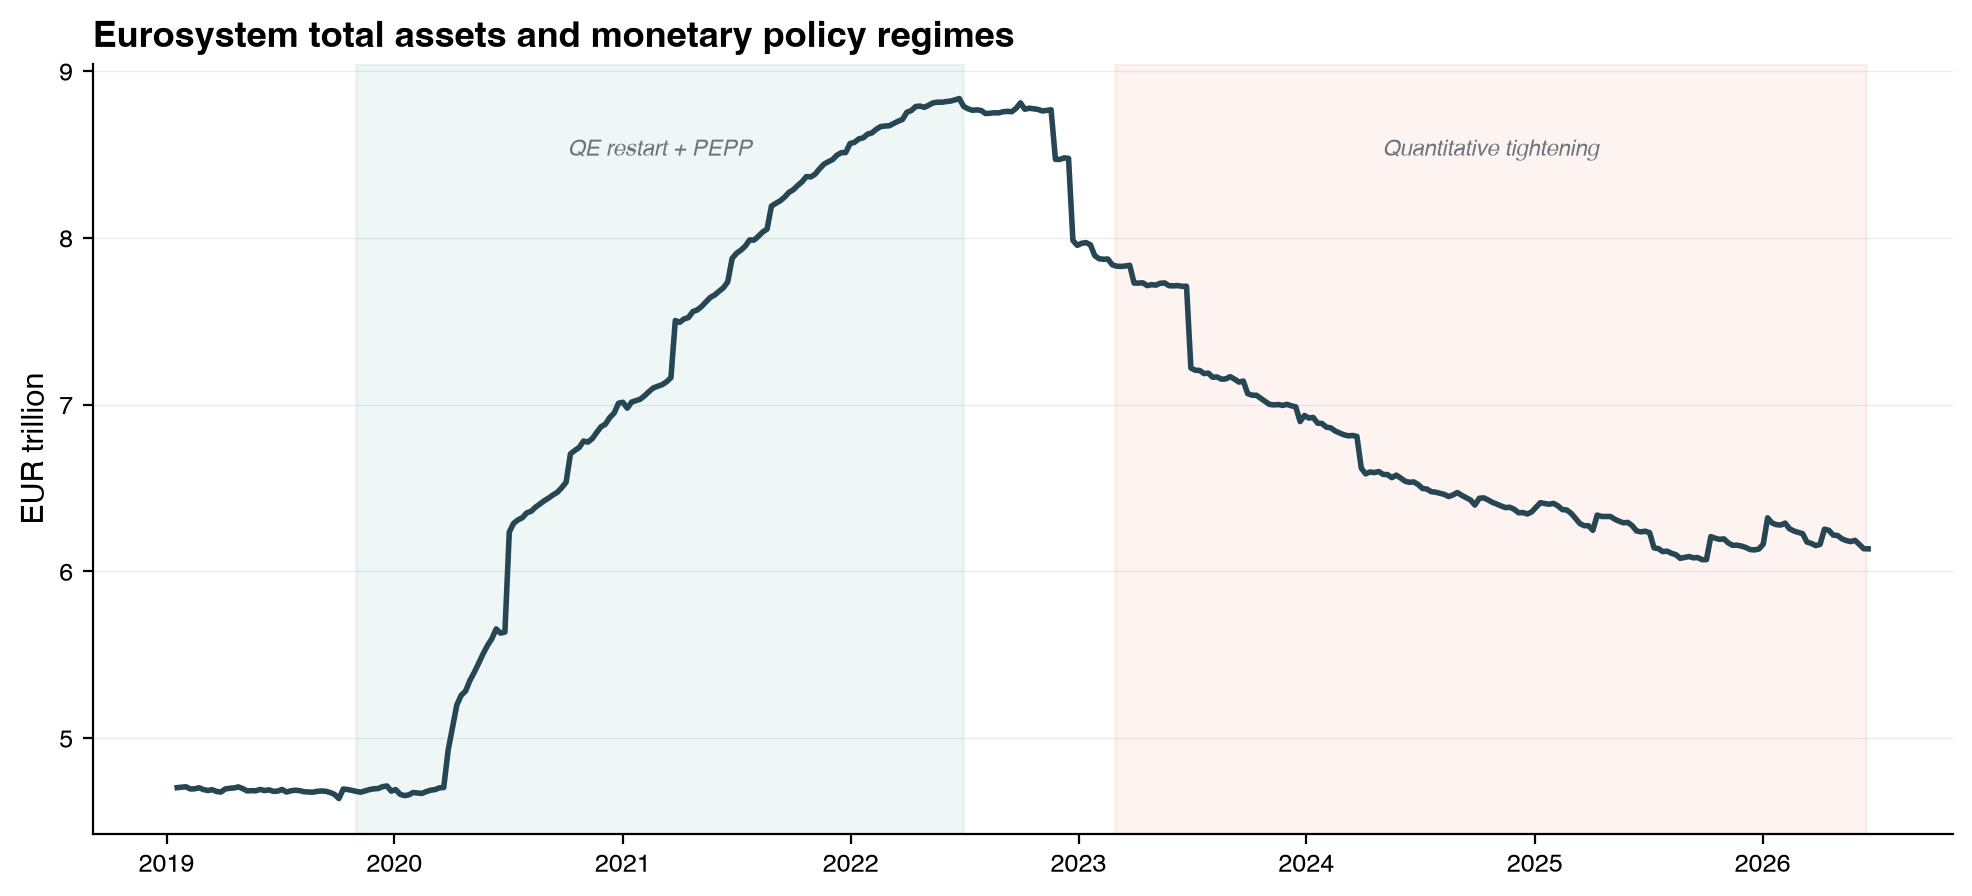
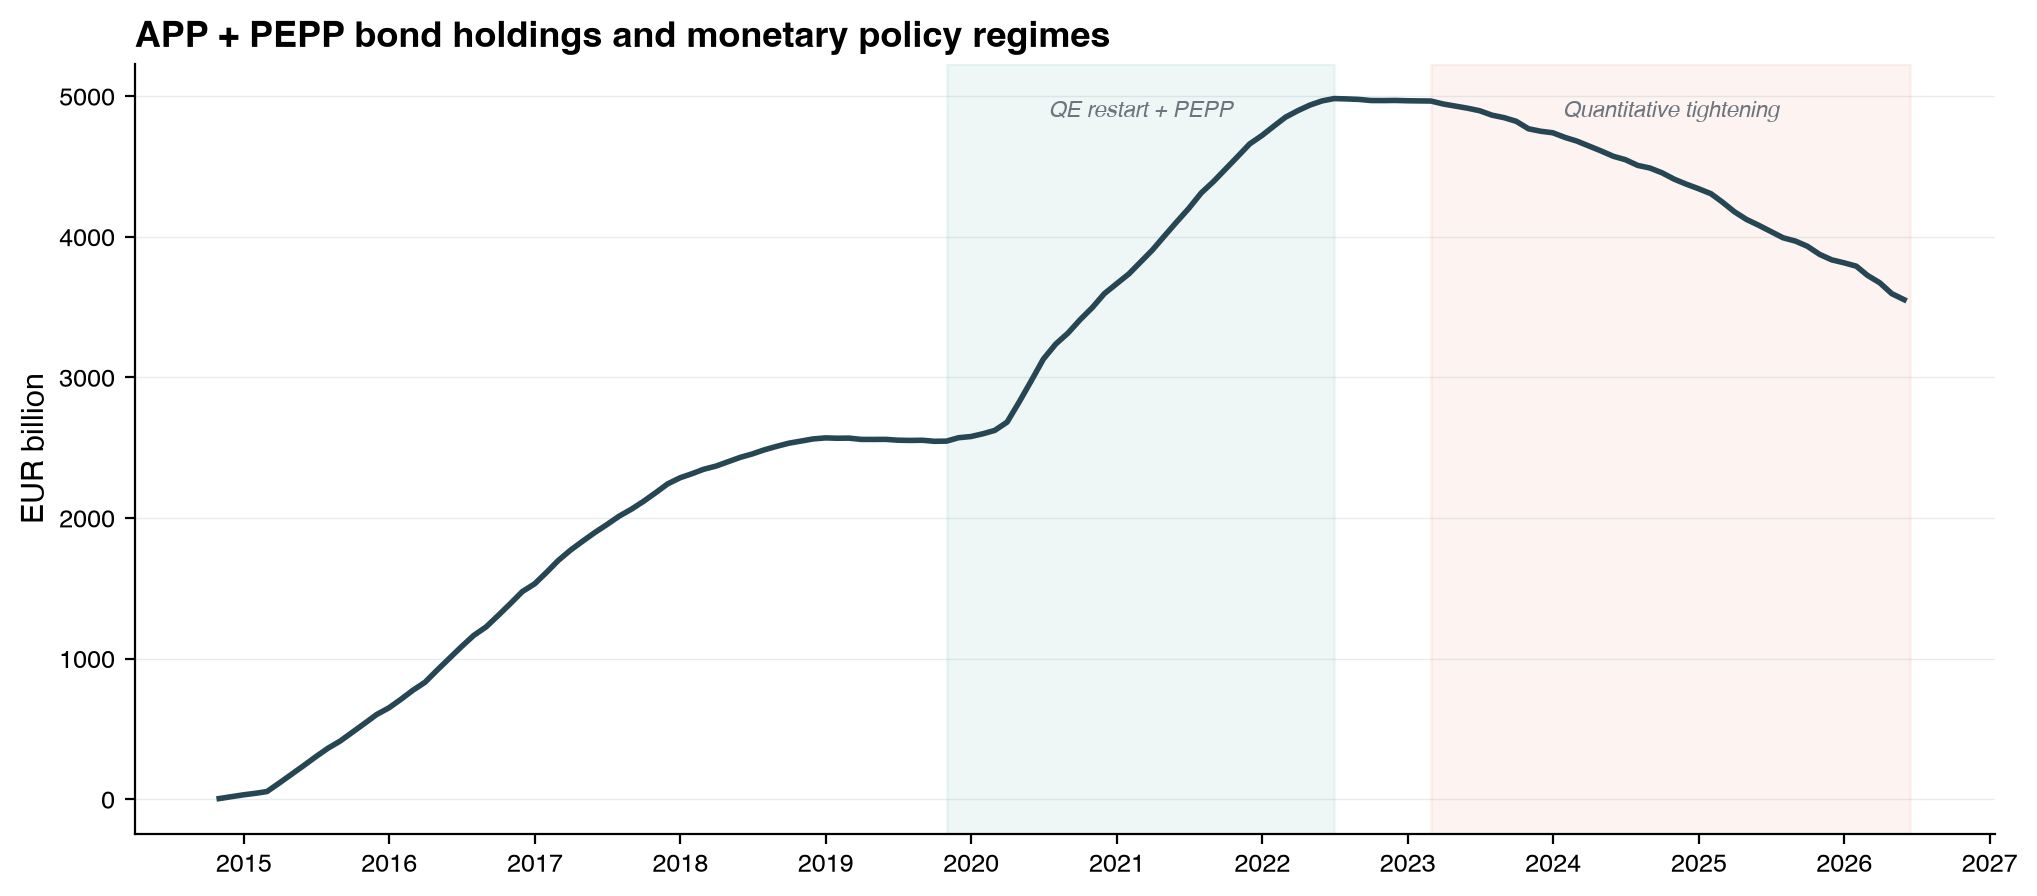
Use APP + PEPP bond holdings instead of total Eurosystem assets
Total Eurosystem assets overstate the balance sheet relative to what
the SMA survey asks about (APP and PEPP holdings specifically). Now
fetches APP breakdown and PEPP cumulative holdings directly from ECB
published CSVs and sums them.

diff --git a/collect_ecb_bs.py b/collect_ecb_bs.py
@@ -1,68 +1,162 @@
+"""Collect ECB asset purchase programme holdings (APP + PEPP).
+Uses the ECB's published CSV breakdowns rather than total Eurosystem assets."""
+
 import csv
 import io
+import re
+from datetime import datetime
 
 import duckdb
 import requests
 
-from config import DUCKDB_PATH, ECB_DATA_API
+from config import DUCKDB_PATH
 
-TOTAL_ASSETS_URL = (
-    f"{ECB_DATA_API}/ILM/W.U2.C.T000000.Z5.Z01?format=csvdata"
-    "&startPeriod=2019-01"
-)
+ECB_BASE = "https://www.ecb.europa.eu"
+APP_URL = f"{ECB_BASE}/mopo/pdf/APP_breakdown_history.csv"
+PEPP_URL = f"{ECB_BASE}/mopo/pdf/PEPP_purchase_history.csv"
+
+
+def parse_app_holdings(text):
+    """Parse APP breakdown CSV. Returns list of (date, holdings_eur_millions)."""
+    import csv as csv_mod
+    lines = list(csv_mod.reader(text.strip().split("\n")))
+    results = []
+    current_year = None
+
+    for cols in lines:
+        if len(cols) < 14:
+            continue
+
+        if cols[0].strip().isdigit():
+            current_year = int(cols[0].strip())
+
+        month_str = cols[1].strip().strip('"')
+        if not month_str or not current_year:
+            continue
+
+        months = {
+            "January": 1, "February": 2, "March": 3, "April": 4,
+            "May": 5, "June": 6, "July": 7, "August": 8,
+            "September": 9, "October": 10, "November": 11, "December": 12,
+        }
+        month_num = months.get(month_str)
+        if not month_num:
+            continue
+
+        # Holdings are in columns 10-13 (ABSPP, CBPP3, CSPP, PSPP)
+        try:
+            holdings = []
+            for i in range(10, 14):
+                val = cols[i].strip().replace('"', '').replace(',', '')
+                holdings.append(float(val) if val else 0.0)
+            total_app = sum(holdings)
+            if total_app == 0:
+                continue
+
+            import calendar
+            last_day = calendar.monthrange(current_year, month_num)[1]
+            date_str = f"{current_year}-{month_num:02d}-{last_day:02d}"
+            results.append((date_str, total_app))
+        except (ValueError, IndexError):
+            continue
+
+    return results
+
+
+def parse_pepp_holdings(text):
+    """Parse PEPP purchase history CSV. Returns list of (date, cumulative_eur_millions)."""
+    lines = text.strip().split("\n")
+    results = []
+    current_year = None
+
+    for line in lines:
+        cols = line.split(",")
+        if len(cols) < 4:
+            continue
+
+        if cols[0].strip().isdigit():
+            current_year = int(cols[0].strip())
+
+        month_str = cols[1].strip().strip('"')
+        if not month_str or not current_year:
+            continue
+
+        months = {
+            "January": 1, "February": 2, "March": 3, "April": 4,
+            "May": 5, "June": 6, "July": 7, "August": 8,
+            "September": 9, "October": 10, "November": 11, "December": 12,
+        }
+        month_num = months.get(month_str)
+        if not month_num:
+            continue
+
+        try:
+            cumulative = float(cols[3].strip().replace('"', ''))
+            import calendar
+            last_day = calendar.monthrange(current_year, month_num)[1]
+            date_str = f"{current_year}-{month_num:02d}-{last_day:02d}"
+            results.append((date_str, cumulative))
+        except (ValueError, IndexError):
+            continue
+
+    return results
 
 
 def collect_ecb_balance_sheet(db_path=DUCKDB_PATH):
     con = duckdb.connect(db_path)
 
-    print("Downloading Eurosystem total assets from ECB Data Portal...")
-    resp = requests.get(TOTAL_ASSETS_URL, timeout=60)
+    con.execute("""
+        CREATE TABLE IF NOT EXISTS ecb_app_pepp (
+            observation_date DATE PRIMARY KEY,
+            app_holdings_eur DOUBLE,
+            pepp_holdings_eur DOUBLE,
+            total_holdings_eur DOUBLE,
+            collected_at TIMESTAMP DEFAULT current_timestamp
+        )
+    """)
 
-    resp.raise_for_status()
+    print("Downloading APP holdings from ECB...", flush=True)
+    resp_app = requests.get(APP_URL, timeout=30)
+    resp_app.raise_for_status()
+    app_data = parse_app_holdings(resp_app.text)
+    print(f"  Parsed {len(app_data)} monthly APP observations", flush=True)
 
-    reader = csv.DictReader(io.StringIO(resp.text))
+    print("Downloading PEPP holdings from ECB...", flush=True)
+    resp_pepp = requests.get(PEPP_URL, timeout=30)
+    resp_pepp.raise_for_status()
+    pepp_data = parse_pepp_holdings(resp_pepp.text)
+    print(f"  Parsed {len(pepp_data)} monthly PEPP observations", flush=True)
+
+    app_dict = {d: v for d, v in app_data}
+    pepp_dict = {d: v for d, v in pepp_data}
+
+    all_dates = sorted(set(list(app_dict.keys()) + list(pepp_dict.keys())))
+
+    con.execute("DELETE FROM ecb_app_pepp")
+
     count = 0
-    for row in reader:
-        period = row.get("TIME_PERIOD", "")
-        value = row.get("OBS_VALUE", "")
-        if not period or not value:
-            continue
+    for date_str in all_dates:
+        app_val = app_dict.get(date_str, 0.0)
+        pepp_val = pepp_dict.get(date_str, 0.0)
+        total = app_val + pepp_val
 
-        # Weekly periods like "2019-W02" — convert to a date (Friday of that week)
-        if "-W" in period:
-            import re
-            m = re.match(r"(\d{4})-W(\d{2})", period)
-            if m:
-                from datetime import datetime, timedelta
-                year, week = int(m.group(1)), int(m.group(2))
-                dt = datetime.strptime(f"{year}-W{week:02d}-5", "%Y-W%W-%w")
-                period = dt.strftime("%Y-%m-%d")
-            else:
-                continue
+        con.execute(
+            """INSERT OR IGNORE INTO ecb_app_pepp
+               (observation_date, app_holdings_eur, pepp_holdings_eur, total_holdings_eur)
+               VALUES (?, ?, ?, ?)""",
+            [date_str, app_val, pepp_val, total],
+        )
+        count += 1
 
-        try:
-            val = float(value)
-        except ValueError:
-            continue
+    print(f"\nLoaded {count} observations into ecb_app_pepp", flush=True)
 
-        try:
-            con.execute(
-                """INSERT OR IGNORE INTO ecb_balance_sheet (observation_date, total_assets_eur)
-                   VALUES (?, ?)""",
-                [period, val],
-            )
-            count += 1
-        except Exception as e:
-            print(f"  Insert error: {e}")
-
-    print(f"Loaded {count} observations into ecb_balance_sheet")
-    total = con.execute("SELECT COUNT(*) FROM ecb_balance_sheet").fetchone()[0]
-    print(f"Total observations in table: {total}")
-
-    sample = con.execute(
-        "SELECT * FROM ecb_balance_sheet ORDER BY observation_date DESC LIMIT 3"
-    ).fetchall()
-    print(f"Latest entries: {sample}")
+    sample = con.execute("""
+        SELECT observation_date, app_holdings_eur, pepp_holdings_eur, total_holdings_eur
+        FROM ecb_app_pepp ORDER BY observation_date DESC LIMIT 5
+    """).fetchall()
+    print("Latest entries (EUR millions):")
+    for row in sample:
+        print(f"  {row[0]}: APP={row[1]:,.0f}  PEPP={row[2]:,.0f}  Total={row[3]:,.0f}")
 
     con.close()
     return count

diff --git a/visualize.py b/visualize.py
@@ -66,8 +66,11 @@ def load_all_data(db_path=DUCKDB_PATH):
     """).fetchdf()
 
     ecb_df = con.execute("""
-        SELECT observation_date, total_assets_eur
-        FROM ecb_balance_sheet ORDER BY observation_date
+        SELECT observation_date,
+               app_holdings_eur,
+               pepp_holdings_eur,
+               total_holdings_eur
+        FROM ecb_app_pepp ORDER BY observation_date
     """).fetchdf()
 
     article_counts = con.execute("""
@@ -111,22 +114,22 @@ def plot_main_comparison(llm_df, sma_df, ecb_df, output_dir):
     if not ecb_df.empty:
         ecb = ecb_df.copy()
         ecb["observation_date"] = pd.to_datetime(ecb["observation_date"])
-        ax1.plot(ecb["observation_date"], ecb["total_assets_eur"] / 1e6,
-                 color=COLORS["ecb_assets"], linewidth=2, label="Eurosystem total assets")
+        ax1.plot(ecb["observation_date"], ecb["total_holdings_eur"] / 1e3,
+                 color=COLORS["ecb_assets"], linewidth=2, label="APP + PEPP holdings")
 
     if not sma_df.empty:
         sma = sma_df.copy()
         sma["vintage_date"] = pd.to_datetime(sma["vintage_date"])
         sma["forecast_date"] = pd.to_datetime(sma["forecast_date"])
         first_fc = sma.groupby("vintage").first().reset_index()
-        ax1.scatter(first_fc["vintage_date"], first_fc["total_holdings_eur"] / 1e3,
+        ax1.scatter(first_fc["vintage_date"], first_fc["total_holdings_eur"],
                     color=COLORS["sma"], edgecolors="#b8860b", s=35, zorder=5,
                     linewidths=0.5, label="SMA median (next quarter)")
 
-    ax1.set_ylabel("EUR trillion")
+    ax1.set_ylabel("EUR billion")
     _add_light_grid(ax1)
     ax1.legend(loc="upper left", frameon=False, fontsize=9)
-    ax1.set_title("ECB balance sheet: actual path and survey expectations", loc="left")
+    ax1.set_title("ECB bond holdings (APP + PEPP): actual path and survey expectations", loc="left")
 
     # Bottom panel: LLM F_t
     ax2.bar(llm_valid["date"], llm_valid["f_statistic"],
@@ -325,11 +328,11 @@ def plot_ecb_bs_with_regimes(ecb_df, output_dir):
 
     ecb = ecb_df.copy()
     ecb["observation_date"] = pd.to_datetime(ecb["observation_date"])
-    ecb["total_tn"] = ecb["total_assets_eur"] / 1e6
+    ecb["total_bn"] = ecb["total_holdings_eur"] / 1e3
 
     fig, ax = plt.subplots(figsize=(12, 5))
 
-    ax.plot(ecb["observation_date"], ecb["total_tn"],
+    ax.plot(ecb["observation_date"], ecb["total_bn"],
             color=COLORS["ecb_assets"], linewidth=2)
 
     regimes = [
@@ -344,8 +347,8 @@ def plot_ecb_bs_with_regimes(ecb_df, output_dir):
         ax.text(mid, y_pos, label, ha="center", va="top",
                 fontsize=8, color=COLORS["annotation"], style="italic")
 
-    ax.set_ylabel("EUR trillion")
-    ax.set_title("Eurosystem total assets and monetary policy regimes", loc="left")
+    ax.set_ylabel("EUR billion")
+    ax.set_title("APP + PEPP bond holdings and monetary policy regimes", loc="left")
     _add_light_grid(ax)
 
     ax.xaxis.set_major_formatter(mdates.DateFormatter("%Y"))

diff --git a/compare.py b/compare.py
@@ -31,8 +31,8 @@ def load_data(db_path=DUCKDB_PATH):
     """).fetchdf()
 
     ecb_df = con.execute("""
-        SELECT observation_date, total_assets_eur
-        FROM ecb_balance_sheet
+        SELECT observation_date, total_holdings_eur
+        FROM ecb_app_pepp
         ORDER BY observation_date
     """).fetchdf()
 

diff --git a/README.md b/README.md
@@ -22,7 +22,7 @@ Over 21 overlapping months with SMA data, the Pearson correlation between F_t an
 ## Figures
 
 ### Figure 1: Main comparison
-Eurosystem total assets with SMA survey medians (top) and LLM balance statistic with key policy events annotated (bottom).
+APP + PEPP bond holdings with SMA survey medians (top) and LLM balance statistic with key policy events annotated (bottom).
 
 ![Main comparison](output/fig1_main_comparison.png)
 
@@ -47,7 +47,7 @@ Distribution of the LLM's self-reported confidence scores by classification dire
 ![Confidence](output/fig5_confidence_distribution.png)
 
 ### Figure 6: ECB balance sheet with policy regimes
-Eurosystem total assets with shaded bands for the three main policy regimes: APP net purchases, QE restart + PEPP, and quantitative tightening.
+APP + PEPP bond holdings with shaded bands for the main policy regimes: QE restart + PEPP, and quantitative tightening.
 
 ![Regimes](output/fig6_ecb_bs_regimes.png)
 
@@ -58,7 +58,7 @@ Eurosystem total assets with shaded bands for the three main policy regimes: APP
 | ECB SMA CSV files | Dec 2021 - present | Direct download from ECB website |
 | GDELT DOC 2.0 API | Apr 2019 - Apr 2020 | Keyword search for ECB balance sheet articles |
 | Google News RSS | 2009 - 2026 | RSS feed search for ECB-related queries |
-| ECB Data Portal | 2019 - present | Weekly Eurosystem total assets (series ILM/W.U2.C.T000000.Z5.Z01) |
+| ECB APP/PEPP CSVs | Oct 2014 - present | Monthly APP and PEPP bond holdings from ECB published breakdowns |
 
 ## Pipeline
 
@@ -67,7 +67,7 @@ schema.py          Create DuckDB tables (idempotent)
 collect_sma.py     Download ECB SMA survey data
 collect_gdelt.py   Fetch articles from GDELT API
 collect_gnews.py   Fetch articles from Google News RSS
-collect_ecb_bs.py  Download actual ECB balance sheet data
+collect_ecb_bs.py  Download APP + PEPP holdings from ECB CSVs
 process_headlines.py  Classify headlines with Claude (Bybee method)
 aggregate.py       Compute monthly F_t balance statistic
 compare.py         Pearson/Spearman correlation analysis
@@ -94,7 +94,7 @@ All data is stored in a single DuckDB file (`ecb_bs.duckdb`) with tables:
 - `gdelt_articles` - News article headlines
 - `llm_classifications` - LLM direction classifications
 - `llm_expectations` - Monthly aggregated F_t
-- `ecb_balance_sheet` - Actual ECB total assets
+- `ecb_app_pepp` - APP + PEPP bond holdings (actual)
 
 ## Methodology
 